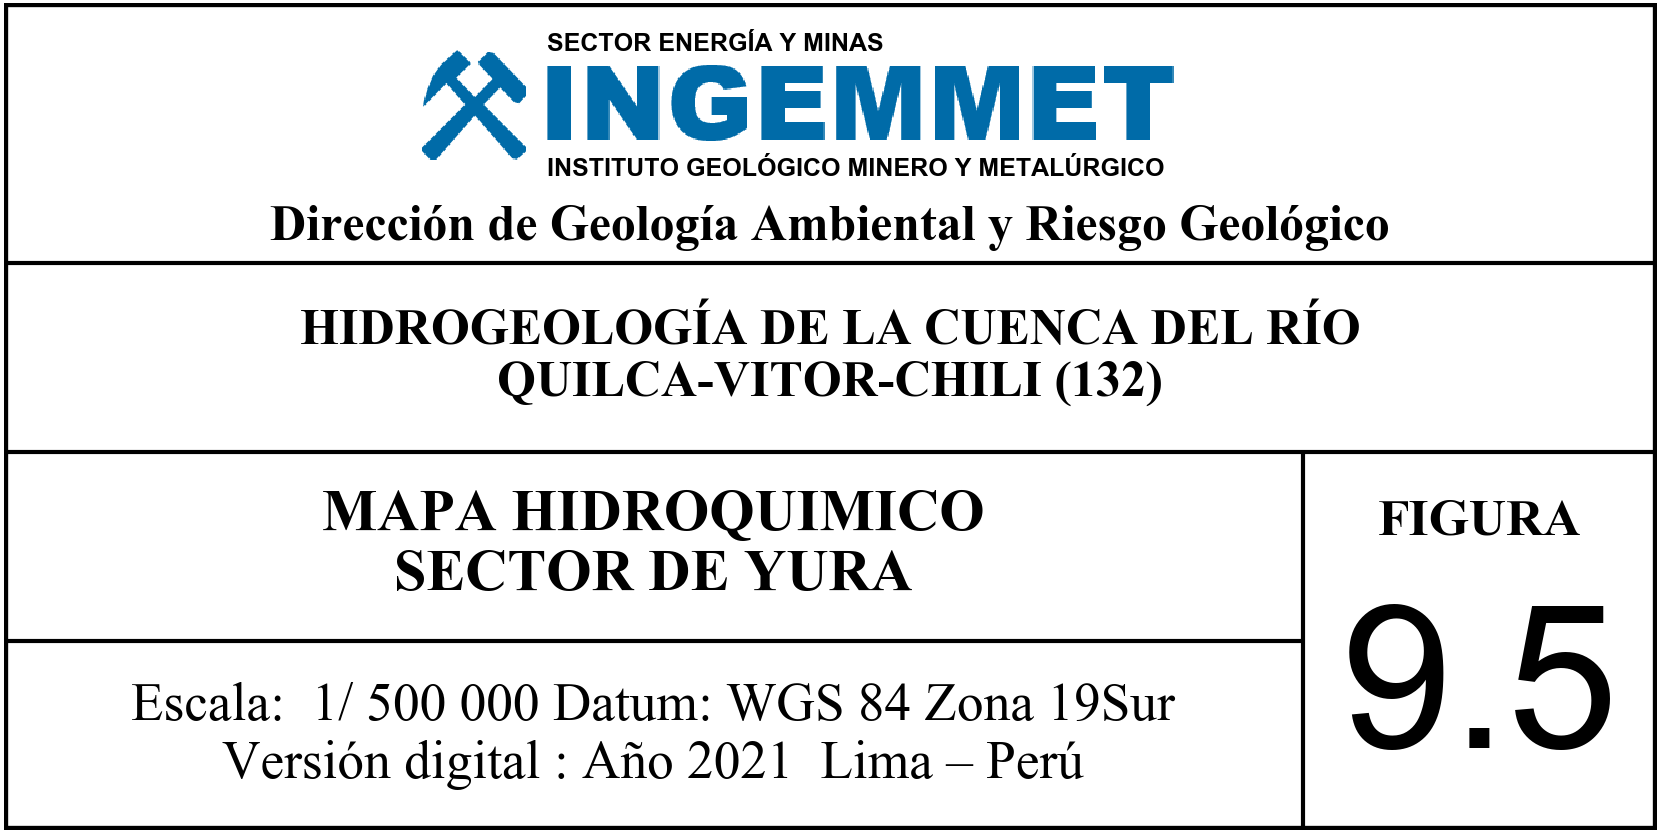
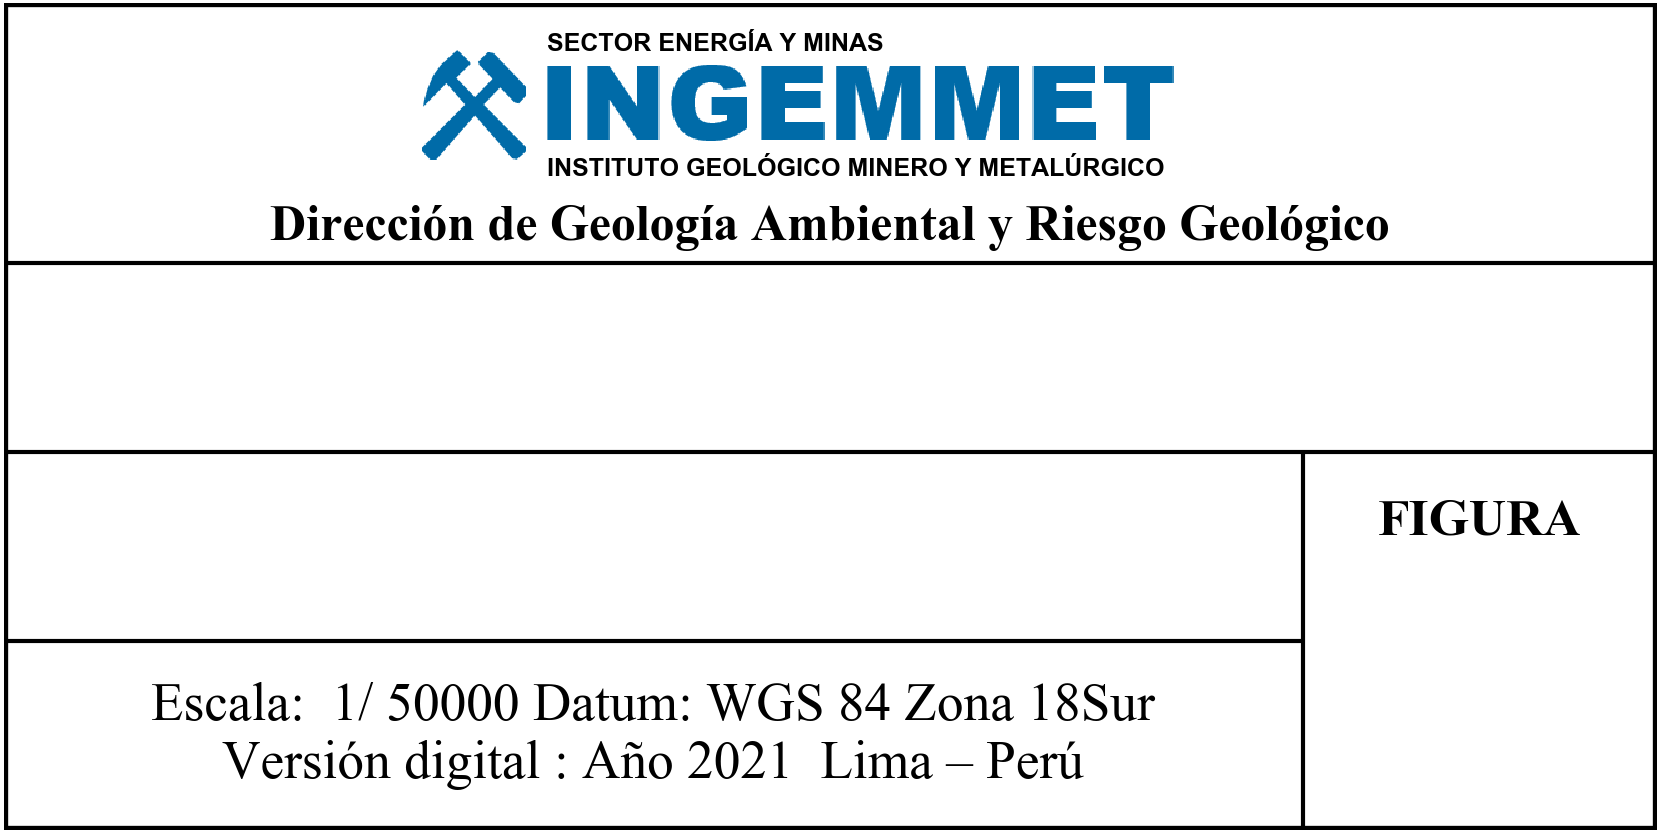
avance del modulo de mapa hidrogeologico 40%

diff --git a/Automapic/scripts/MHG_S04_generar_rotulo.py b/Automapic/scripts/MHG_S04_generar_rotulo.py
@@ -1,0 +1,135 @@
+# -*- coding: utf-8 -*-
+
+import arcpy
+import json
+import settings as st
+import messages as msg
+import matplotlib.pyplot as plt
+import matplotlib.image as mpimg
+from matplotlib.offsetbox import TextArea, DrawingArea, OffsetImage, AnnotationBbox
+import PG_S01_mapa_peligros_geologicos as mpg
+from datetime import datetime
+import uuid
+
+
+# tamanio = arcpy.GetParameterAsText(0)
+# autores = arcpy.GetParameterAsText(1)
+# titulo1 = arcpy.GetParameterAsText(2)
+# titulo2 = arcpy.GetParameterAsText(3)
+# numero = arcpy.GetParameterAsText(4)
+tamanio = '1'
+autores = ''
+titulo1 = u'HIDROGEOLOGÍA DE LA CUENCA DEL RÍO TARAU, COATA'
+titulo2 = u'Mapa Hidrogeológico Sector Imaginacionlandia'
+numero = '9.5'
+
+cm = 1/2.54
+
+nombre_dgar = u'Dirección de Geología Ambiental y Riesgo Geológico'
+nombre_ingemmet = u'INSTITUTO GEOLÓGICO MINERO Y METALÚRGICO'
+nombre_sector = u'SECTOR ENERGÍA Y MINAS'
+
+border_color = '#000000'
+font_TimesNewRoman = 'Times New Roman'
+font_Arial = 'Arial'
+fontsize_titulo1 = 6
+fontsize_titulo2 = 7
+fontisze_numero = 24
+fontsize_figura = 6.2
+fontsize_detalle = 6.4
+fontsize_nombre_dgar = 6
+fontsize_nombre_ingemmet = 3
+fontsize_nombre_sector = 3
+
+if tamanio == '1':
+    # :Dimensiones de rotulo
+    w, h = 7 * cm, 3.5* cm
+    w_numero, h_numero = 1.5 * cm, 1.6 * cm
+    w_titulo1, h_titulo1 = w, 0.8 * cm
+    w_detalle, h_detalle = w - w_numero, 0.8 * cm
+    
+    # :PlotObject
+    fig, ax = plt.subplots(figsize=(w, h))
+
+    # :Limites de dibujo
+    ax.set_xlim(0, w)
+    ax.set_ylim(0, h)
+
+    # :Bordes
+    ax.vlines([0, w], ymin=0, ymax=h, color=border_color, linewidth=1)                             # Bordes verticales
+    ax.hlines([0, h], xmin=0, xmax=w, color=border_color, linewidth=1)                             # Bordes horizontales
+    ax.vlines([w - w_numero], ymin=0, ymax=h_numero, color=border_color, linewidth=0.5)            # Borde vertical de la seccion "numero de mapa"
+    ax.hlines([h_numero, h_numero + h_titulo1], xmin=0, xmax=w, color=border_color, linewidth=0.5) # Bordes horizontales de la seccion "titulo 1"
+    ax.hlines([h_detalle], xmin=0, xmax=w_detalle, color=border_color, linewidth=0.5)              # Borde horizontal de la seccion "detalle"
+
+    # :Texto
+    titulo1 = mpg.set_detalle(titulo1, 35, first_line=True)
+    plt.annotate(titulo1, (3.5*cm, 2.0*cm), ha='center', va='center', fontname=font_TimesNewRoman, weight='bold', fontsize=fontsize_titulo1)
+    titulo2 = mpg.set_detalle(titulo2, 20, first_line=True)
+    plt.annotate(titulo2, (2.75*cm, 1.2*cm), ha='center', va='center', fontname=font_TimesNewRoman, weight='bold', fontsize=fontsize_titulo2)
+    plt.annotate(nombre_dgar, (3.5*cm, 2.55*cm), ha='center', va='center', fontname=font_TimesNewRoman, weight='bold', fontsize=fontsize_nombre_dgar)
+    plt.annotate(nombre_ingemmet, (2.3*cm, 2.77*cm), fontname=font_Arial, weight='bold', fontsize=fontsize_nombre_ingemmet)
+    plt.annotate(nombre_sector, (2.3*cm, 3.3*cm), fontname=font_Arial, weight='bold', fontsize=fontsize_nombre_sector)
+    
+    arr_logo = mpimg.imread(st._IMG_LOGO_INGEMMET)
+    imagebox = OffsetImage(arr_logo, zoom=0.15)
+
+    ab = AnnotationBbox(imagebox, (3.5*cm, 3*cm), frameon=False)
+
+    ax.add_artist(ab)
+
+
+    plt.annotate(numero, (6.25*cm, 0.35*cm), ha='center', fontname=font_Arial, weight='regular', fontsize=fontisize_numero)
+    plt.annotate(u'FIGURA', (6.25*cm, 1.25*cm), ha='center', fontname=font_TimesNewRoman, weight='bold', fontsize=fontisize_figura)
+
+    escala = mxd.activeDataFrame.scale
+    wkid = str(mxd.activeDataFrame.spatialReference.factoryCode)
+    wkid = '32718'
+    if wkid == '4326':
+        datum = 'WGS 84 GCS'
+    elif wkid == '4248':
+        datum = 'PSAD 56 GCS'
+    elif '327' in str(wkid):
+        datum = 'WGS 84 Zona {}Sur'.format(wkid[3:])
+    elif '248' in str(wkid):
+        datum = 'PSAD 56 Zona 1{}Sur'.format(wkid[-1])
+    
+    year = datetime.today().year
+
+    detalle = u'Escala:  1/ {} Datum: {}\nVersión digital : Año {}  Lima – Perú'.format(escala, datum, year)
+
+    plt.annotate(detalle, (2.75*cm, 0.4*cm), ha='center', va='center', fontname=font_TimesNewRoman, weight='regular', fontsize=6.4)
+
+else:
+    pass
+
+
+plt.subplots_adjust(top=1, bottom=0, right=1, left=0, hspace=0, wspace=0)
+plt.margins(0,0)
+plt.gca().xaxis.set_major_locator(plt.NullLocator())
+plt.gca().yaxis.set_major_locator(plt.NullLocator())
+plt.axis('off')
+extent = ax.get_window_extent().transformed(fig.dpi_scale_trans.inverted())
+rotulo_path = os.path.join(st._TEMP_FOLDER, 'rotulo_{}.png'.format(uuid.uuid4().hex))
+plt.savefig(rotulo_path, dpi=600, bbox_inches='tight', pad_inches=0)
+print rotulo_path
+
+
+
+# response = dict()
+# response['status'] = 1
+# response['message'] = 'success'
+
+
+# try:
+#     feature = st._PL_01_CUENCAS_HIDROGRAFICAS_PATH
+#     if not arcpy.Exists(feature):
+#         raise RuntimeError(msg._ERROR_FEATURE_CUENCAS_HG)
+#     cursor = arcpy.da.SearchCursor(feature, [st._CD_CUENCA, st._NM_CUENCA])
+#     response["response"] = list(map(lambda i: [i[0], i[1] + " - " +  str(i[0])], cursor))
+# except Exception as e:
+#     response['status'] = 0
+#     response['message'] = e.message
+# finally:
+#     response = json.dumps(response, encoding='windows-1252', ensure_ascii=False)
+#     arcpy.SetParameterAsText(0, response)

diff --git a/Automapic/scripts/PG_S01_mapa_peligros_geologicos.py b/Automapic/scripts/PG_S01_mapa_peligros_geologicos.py
@@ -91,7 +91,7 @@ def set_SSM(mxd):
     return mxd
 
 
-def set_detalle(text, max_character_by_line):
+def set_detalle(text, max_character_by_line, first_line=False):
     nlist = list()
     textList = text.split(' ')
     ini, end, tx = 0, 0, str()
@@ -103,6 +103,8 @@ def set_detalle(text, max_character_by_line):
             nlist.append(tx)
             ini = end
     nlist.append(' '.join(textList[end:]))
+    if first_line:
+        return nlist[0] + '\n' + ' '.join(nlist[1:])
     return '\n'.join(nlist)
 
 def generate_map():

diff --git a/Automapic/scripts/settings.py b/Automapic/scripts/settings.py
@@ -6,6 +6,9 @@ _BASE_DIR = os.path.dirname(__file__)
 _TEMP_FOLDER = pkg.get_config_param_value('TEMP_FOLDER', one=True)
 _REQUIREMENTS_DIR = os.path.join(_BASE_DIR, 'require')
 
+_IMG_DIR = os.path.join(_BASE_DIR, 'img')
+_IMG_LOGO_INGEMMET = os.path.join(_IMG_DIR, 'logo_ingemmet.png')
+
 _ZONAS_GEOGRAFICAS = [17, 18, 19]
 _EPSG_W17S = 32717
 _EPSG_W18S = 32718
